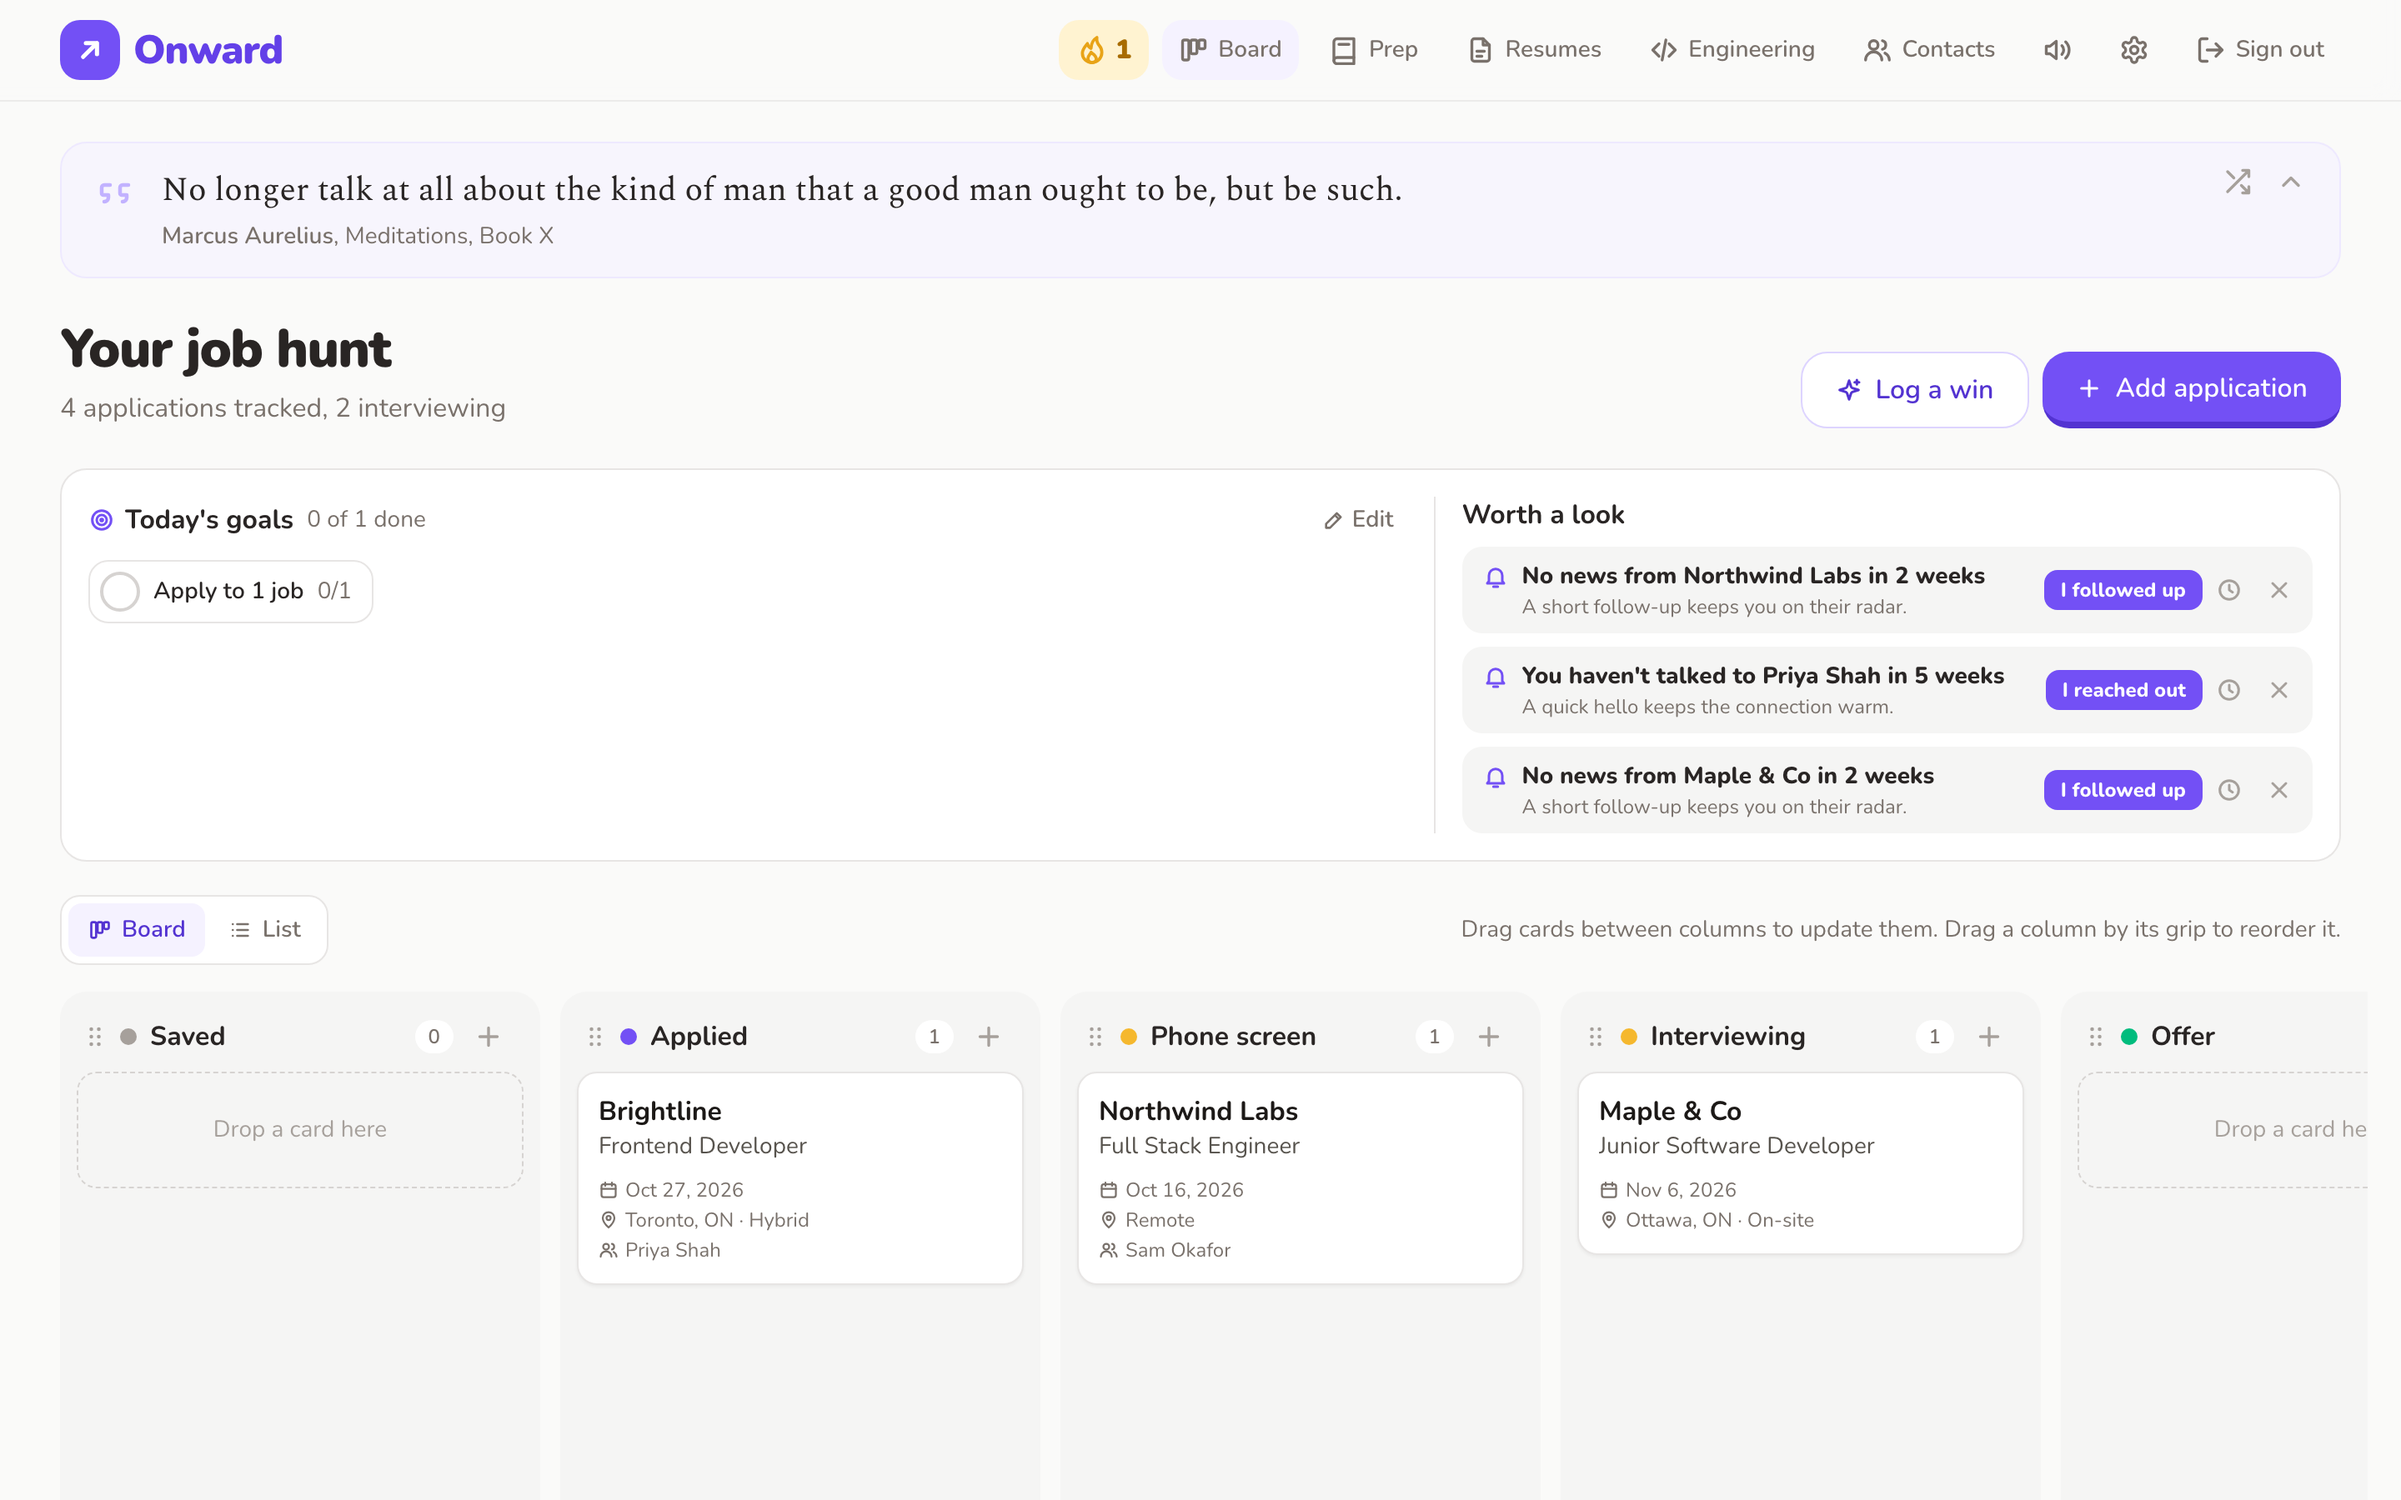
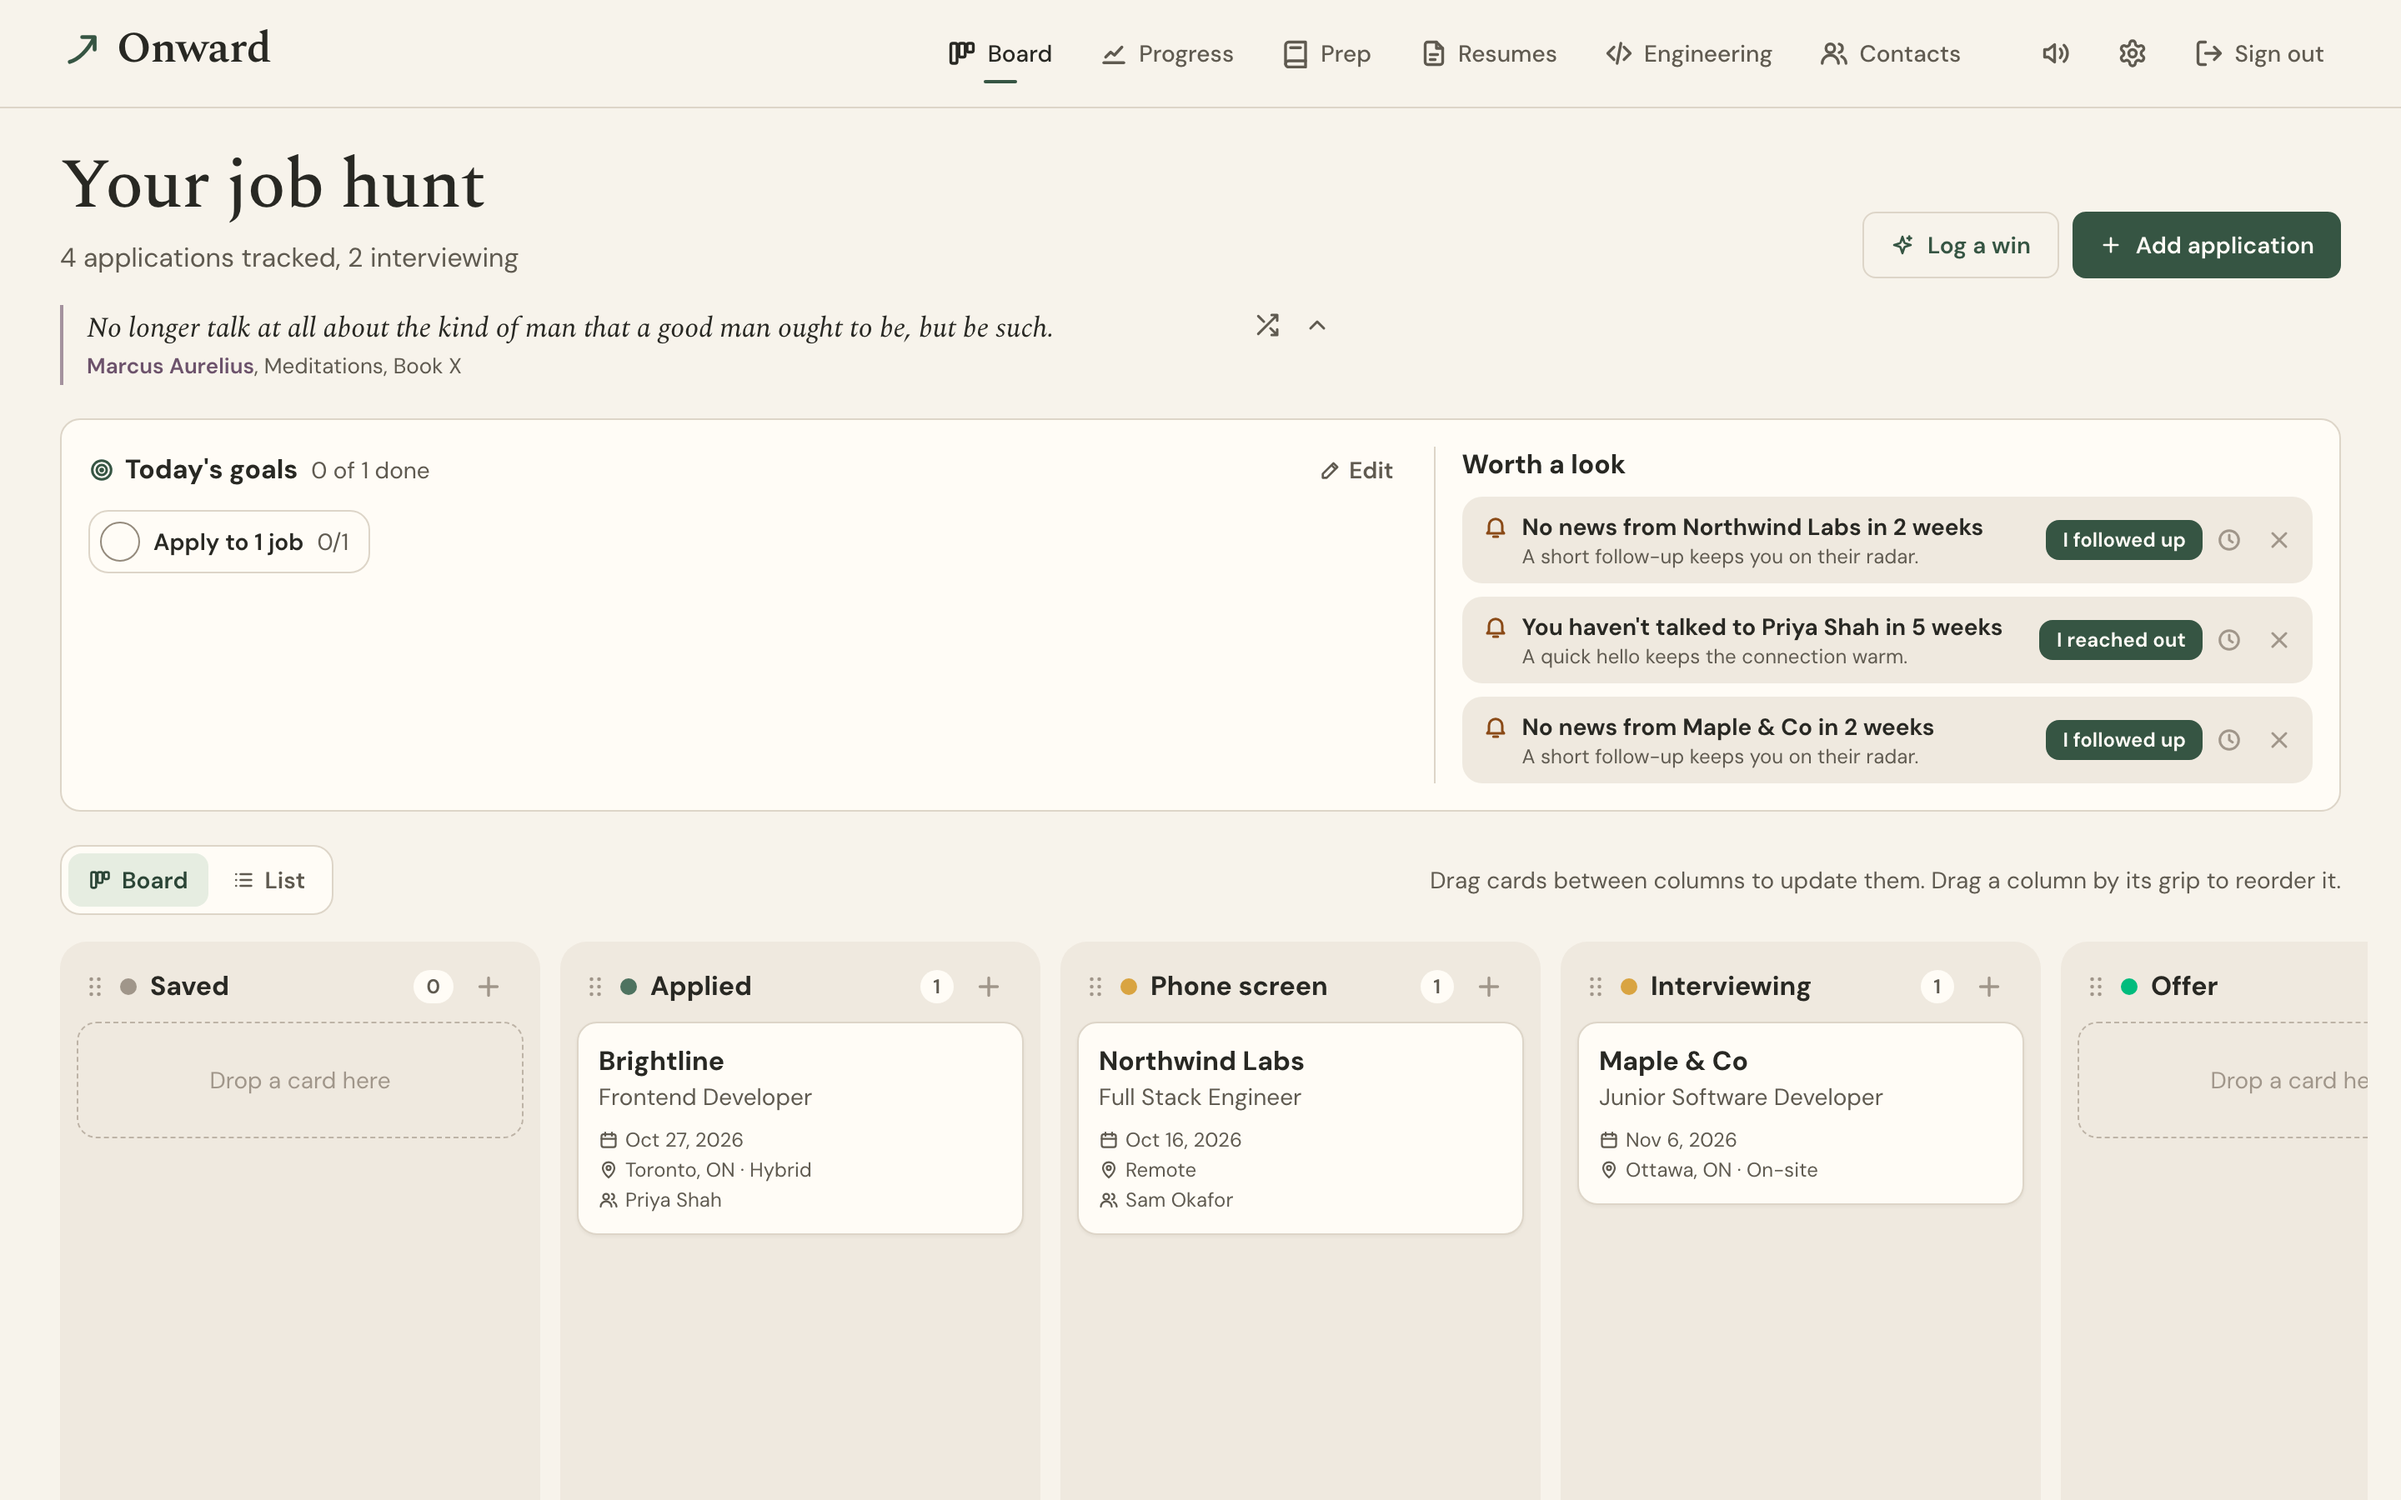
fix: draw the streak line and arrow as one smooth stroke so they meet cleanly (#12)
* fix: draw the streak line and arrow as one smooth stroke so they meet cleanly

* fix: show the new notebook look in the readme screenshot

* fix: link to the live site in the readme and drop the free server notes

diff --git a/frontend/src/components/progress/WeeklyRecap.tsx b/frontend/src/components/progress/WeeklyRecap.tsx
@@ -4,7 +4,7 @@ import { addDays, formatDay, mondayOf, plural } from '../../lib/activities';
 import { countWeek, recapStats, recapText } from '../../lib/recap';
 import { showToast } from '../../lib/celebrate';
 import { drawRecapImage } from '../../lib/recapImage';
-import { ChevronLeftIcon, ChevronRightIcon, CopyIcon, OnwardMarkIcon, ShareIcon } from '../icons';
+import { ChevronLeftIcon, ChevronRightIcon, CopyIcon, OnwardRuleIcon, ShareIcon } from '../icons';
 import { Button } from '../ui';
 
 type Activity = ProgressQuery['progress']['activities'][number];
@@ -135,10 +135,7 @@ export default function WeeklyRecap({
       )}
 
       <div className="mt-6 flex items-center gap-3 text-sm/5">
-        <span className="flex items-center text-link" aria-hidden="true">
-          <span className="h-px w-12 bg-current" />
-          <OnwardMarkIcon className="-ml-1 text-base" strokeWidth={2} />
-        </span>
+        <OnwardRuleIcon className="shrink-0 text-base text-link" strokeWidth={2} />
         <span className="flex flex-wrap gap-x-4 gap-y-1 text-muted">
           {showStreak && <span>{streak}-day streak</span>}
           {week.closures > 0 && <span>{plural(week.closures, 'door')} closed, which is progress too</span>}

diff --git a/frontend/src/lib/recapImage.ts b/frontend/src/lib/recapImage.ts
@@ -4,7 +4,7 @@
 // short line that ends in Onward's mark. Plain canvas drawing, so it needs no
 // libraries. The stats and their words come from recap.ts.
 
-import { ONWARD_MARK_PATHS } from './mark';
+import { ONWARD_MARK_PATHS, onwardMarkWithRule } from './mark';
 import type { RecapStat } from './recap';
 
 export type { RecapStat };
@@ -154,9 +154,11 @@ export async function drawRecapImage({
 
   // The short rule that ends in Onward's mark.
   let y = top + Math.ceil(shown.length / columns) * rowHeight + 18;
-  ctx.fillStyle = EVERGREEN;
-  ctx.fillRect(MARGIN, y - 1.5, 140, 3);
-  drawIcon(ctx, ONWARD_MARK_PATHS, MARGIN + 128, y - 30, 44, EVERGREEN);
+  // One stroke, so the rule and the mark always meet. The rule sits at y and starts at MARGIN.
+  const markSize = 44;
+  const unit = markSize / 24;
+  const rule = 76;
+  drawIcon(ctx, onwardMarkWithRule(rule), MARGIN + (rule - 5) * unit, y - 19 * unit, markSize, EVERGREEN);
   y += 80;
 
   if (streak > 0) {

diff --git a/frontend/src/components/icons.tsx b/frontend/src/components/icons.tsx
@@ -1,5 +1,5 @@
 import type { ReactNode, SVGProps } from 'react';
-import { ONWARD_MARK_PATHS } from '../lib/mark';
+import { ONWARD_MARK_PATHS, onwardMarkWithRule } from '../lib/mark';
 
 type IconProps = SVGProps<SVGSVGElement>;
 
@@ -44,6 +44,19 @@ export const ArrowUpRightIcon = (props: IconProps) => (
 export const OnwardMarkIcon = (props: IconProps) => (
   <Icon {...props}>
     {ONWARD_MARK_PATHS.map((d) => (
+      <path key={d} d={d} />
+    ))}
+  </Icon>
+);
+
+/**
+ * A flat rule that rises into Onward's mark, drawn as one stroke. It is wider
+ * than it is tall, so its width grows with the rule. Set the size with font-size.
+ */
+const RULE = 60;
+export const OnwardRuleIcon = (props: IconProps) => (
+  <Icon viewBox={`${4 - RULE} 0 ${RULE + 15} 24`} width={`${(RULE + 15) / 24}em`} {...props}>
+    {onwardMarkWithRule(RULE).map((d) => (
       <path key={d} d={d} />
     ))}
   </Icon>

diff --git a/frontend/src/lib/mark.ts b/frontend/src/lib/mark.ts
@@ -3,4 +3,16 @@
  * drawn in a notebook, on a 24 by 24 grid. The header, the shared recap image
  * and public/favicon.svg all draw these same paths.
  */
-export const ONWARD_MARK_PATHS = ['M5 19c4.6-1.4 9-5.8 12.6-12.4', 'M11.4 6.2h6.4v6.4'] as const;
+const CURVE = 'c4.6-1.4 9-5.8 12.6-12.4';
+const HEAD = 'M11.4 6.2h6.4v6.4';
+
+export const ONWARD_MARK_PATHS: readonly string[] = [`M5 19${CURVE}`, HEAD];
+
+/**
+ * The mark with a flat rule leading into it from the left. The rule and the
+ * rising line are one stroke, so they always meet cleanly. The rule starts
+ * `length` units left of the mark, at x = 5 - length.
+ */
+export function onwardMarkWithRule(length: number): readonly string[] {
+  return [`M${5 - length} 19H5${CURVE}`, HEAD];
+}

diff --git a/README.md b/README.md
@@ -4,6 +4,8 @@
 
 A job hunt tracker that feels like a well-kept notebook. Track your applications on a drag-and-drop board, see a short record of what you did each week, set small daily goals, and watch your effort fill in a GitHub-style heat map, whether or not it pays off right away.
 
+**Try it live at [onward-wzja.onrender.com](https://onward-wzja.onrender.com/).**
+
 ![The job board](docs/screenshot.png)
 
 **Guiding principle: reward effort, not outcomes.** Applying, networking, and prepping are wins on their own.
@@ -343,9 +345,7 @@ To change what the message asks ChatGPT to do, click **Edit instructions** next 
 
 ## Putting Onward online
 
-Onward is set up for [Render](https://render.com) with a free web server and a $6/month database. The file `render.yaml` describes both, so most of this is clicking through Render's screens.
-
-**What to expect from the free server:** it goes to sleep after 15 minutes without visitors. The next visit shows a loading page for about a minute while it wakes up, then it's normal speed. Your data is in the paid database, so sleeping never loses anything. If the wait gets annoying, switch the web service to a paid plan in Render ($7/month).
+Onward is set up for [Render](https://render.com) with a web server and a database. The file `render.yaml` describes both, so most of this is clicking through Render's screens.
 
 ### 1. Check that it builds
 
@@ -543,8 +543,6 @@ These are the hiccups people run into most, usually from setup or the hosting pl
 **`bin/e2e` says Chromium (or an "executable") doesn't exist.** Playwright's browser isn't downloaded yet. See [Setting up the end-to-end tests](#setting-up-the-end-to-end-tests).
 
 ### Hosting
-
-**The hosted app shows a loading page for about a minute.** The free server was asleep. It wakes up on the first visit after 15 minutes without visitors.
 
 **The Render build fails at `bundle install` with a platform error.** `Gemfile.lock` is missing Linux. See [step 2 of Putting Onward online](#2-check-that-renders-linux-servers-can-install-your-gems).
 
